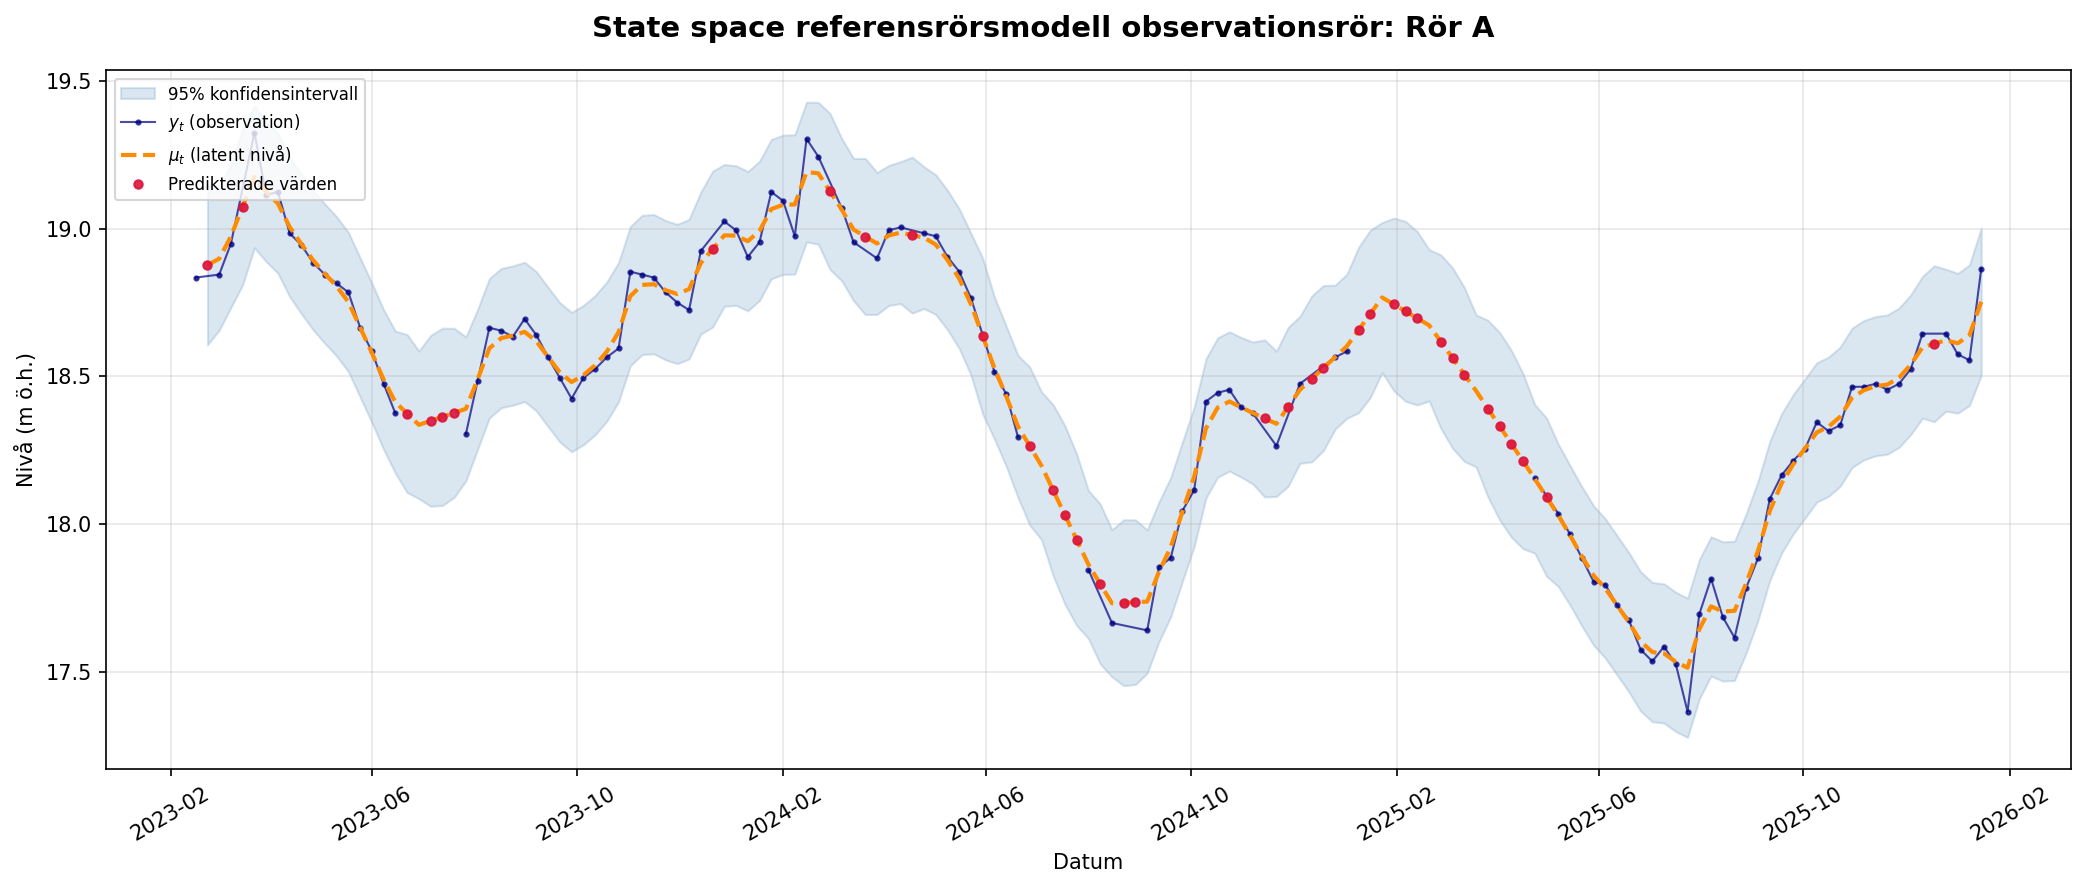
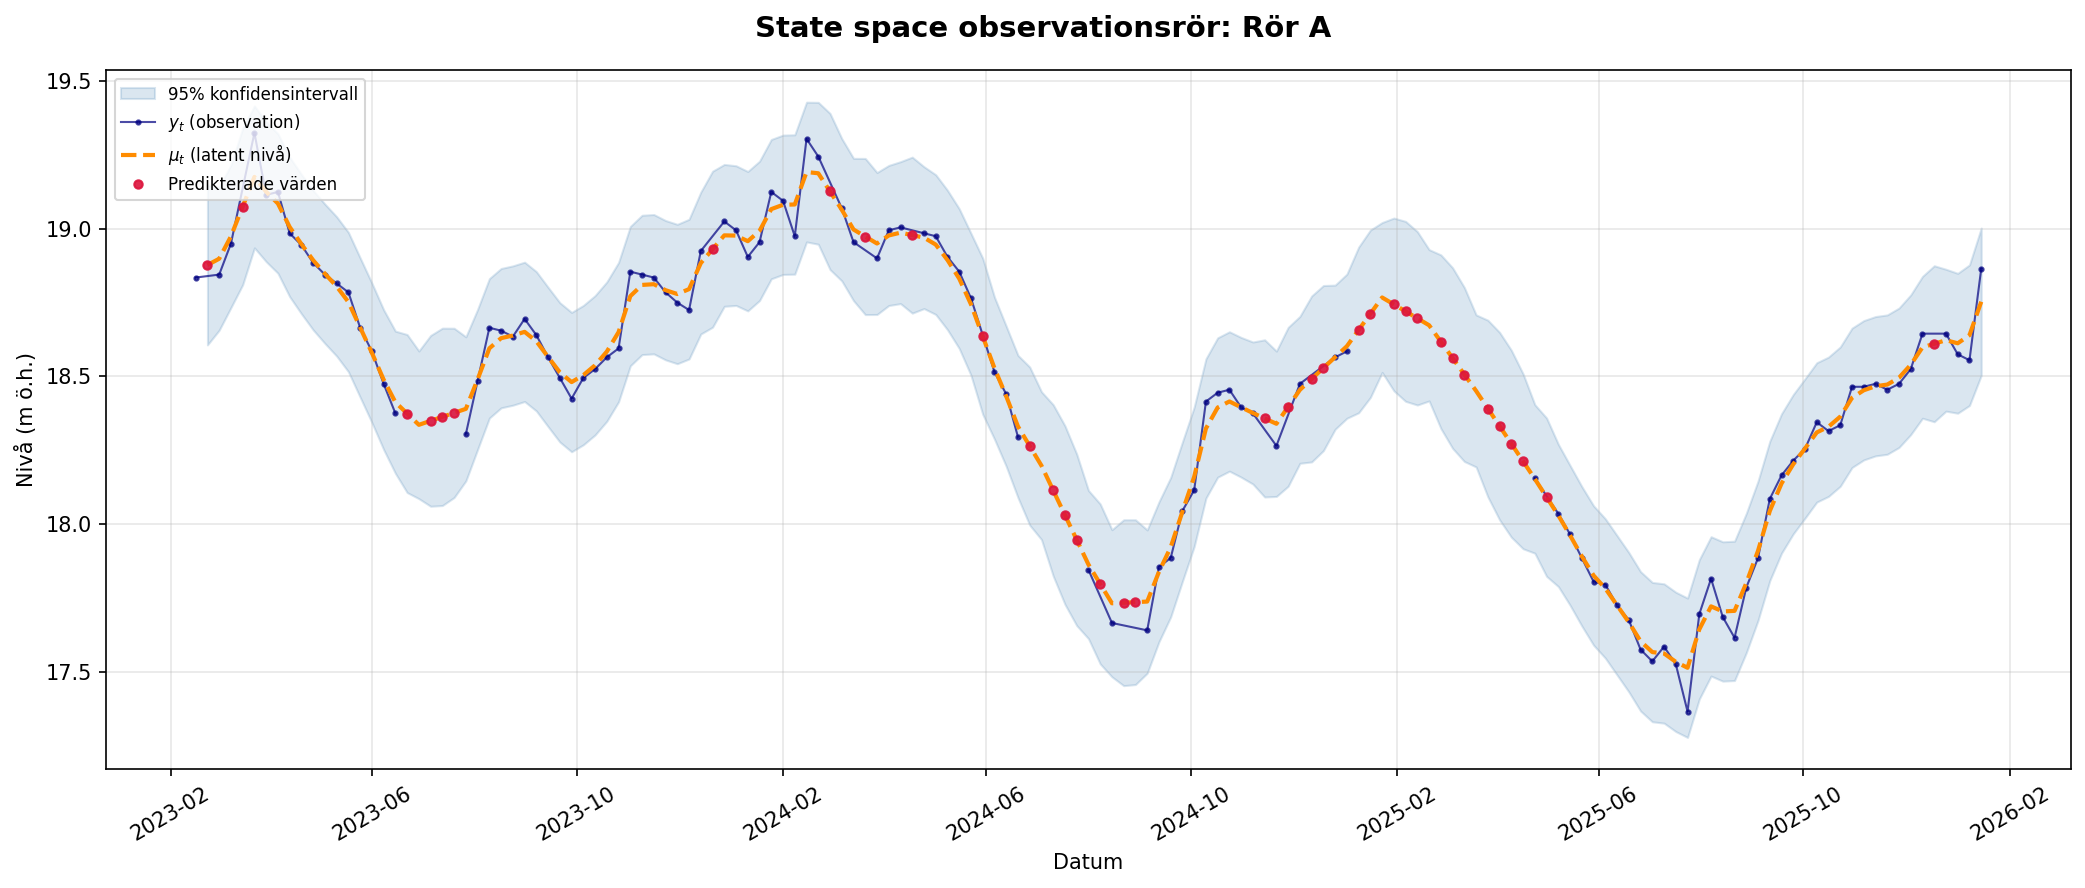
ny
ny

Changed region(s): [[0.2806, 0.0, 0.717, 0.0608]]

diff --git a/kandidatuppsats_endast_basror.py b/kandidatuppsats_endast_basror.py
@@ -276,7 +276,7 @@ def plot_results(
 
     fig, ax = plt.subplots(figsize=(14, 6))
     fig.suptitle(
-        f"State space referensrörsmodell observationsrör: {station_id}",
+        f"State space observationsrör: {station_id}",
         fontsize=14, fontweight="bold",
     )
 
